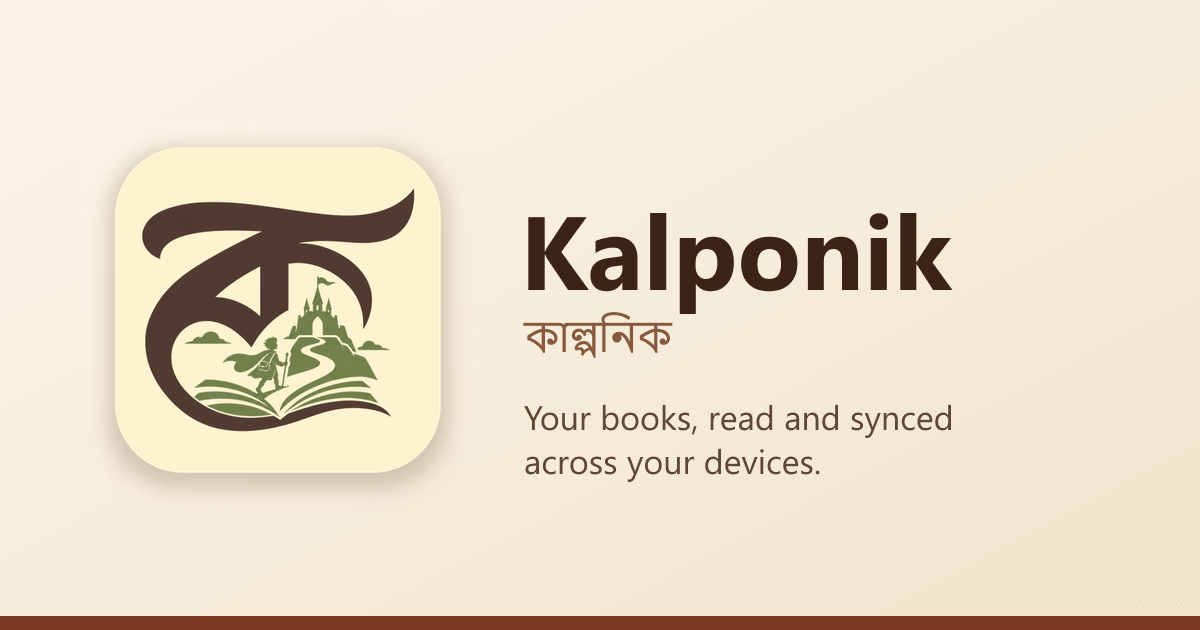
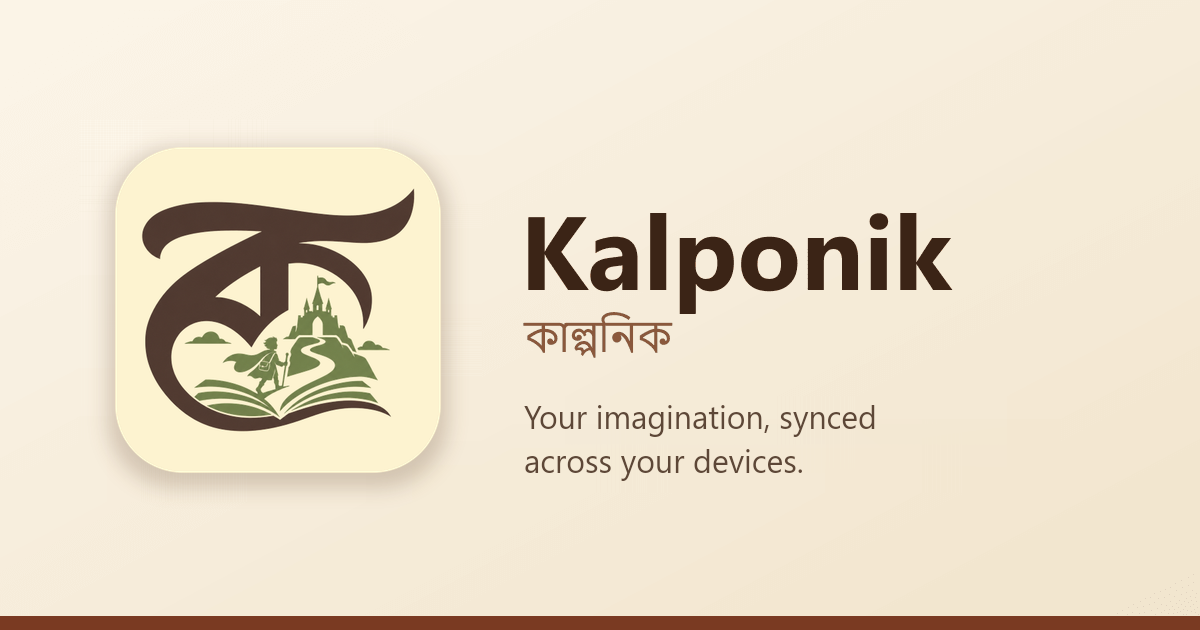
Own feature graphic and tagline; README credits Readest
Tagline everywhere is now "Get lost in a story. Your imagination,
synced across your devices." (owner: "imagination synced across
devices").

- fastlane featureGraphic.png (1024x500, no alpha): replaces Readest's
  marketing banner. Logo, Kalponik / কাল্পনিক, the tagline, and a
  path over olive hills to a castle. Platforms shown as plain Web and
  Android labels with our own glyphs, no brand logos.
- og-preview.png: tagline text swapped, layout unchanged.
- layout.tsx: page title and description (used by link previews) drop
  Readest's "Where You Read, Digest and Get Insight" slogan.
- manifest.json: description credits Readest (it said "based on the
  open-source Kalponik", a leftover of the rename).
- README: Kalponik logo and intro at the top, a clear credit with a
  link to github.com/readest/readest, and a "Built on Readest" section.

Verified: site-metadata.test.ts gets "uses Kalponik's own tagline, not
Readest's slogan"; it failed on the old layout.tsx ("expected ... not
to match /Digest and Get Insight/") and passes now (4/4). Images were
checked by eye.

Changed region(s): [[0.4317, 0.6333, 0.8017, 0.6937], [0.4317, 0.7238, 0.6783, 0.754]]

diff --git a/apps/kalponik-app/src/app/layout.tsx b/apps/kalponik-app/src/app/layout.tsx
@@ -12,12 +12,11 @@ import '../styles/globals.css';
 // Kalponik's public address, base path included.
 const siteOrigin = 'https://asroy.duckdns.org';
 const url = `${siteOrigin}${BASE_PATH}/`;
-const title = 'Kalponik — Where You Read, Digest and Get Insight';
+const title = 'Kalponik — Get lost in a story';
 const description =
-  'Discover Kalponik, the ultimate online ebook reader for immersive and organized reading. ' +
-  'Enjoy seamless access to your digital library, powerful tools for highlighting, bookmarking, ' +
-  'and note-taking, and support for multiple book views. ' +
-  'Perfect for deep reading, analysis, and understanding. Explore now!';
+  'Your imagination, synced across your devices. ' +
+  'Kalponik is a personal ebook reader for EPUB, PDF and more, on the web and Android: ' +
+  'highlights, notes and your place in every book follow you from one device to the next.';
 // Relative to metadataBase, which already ends in the base path: Next.js joins
 // the two paths, so this one must not carry /kalponik itself.
 const previewImage = '/images/og-preview.png';

diff --git a/apps/kalponik-app/src/__tests__/app/layout/site-metadata.test.ts b/apps/kalponik-app/src/__tests__/app/layout/site-metadata.test.ts
@@ -17,6 +17,13 @@ describe('root layout metadata', () => {
     expect(JSON.stringify(metadata)).not.toMatch(/readest\.com/);
   });
 
+  it("uses Kalponik's own tagline, not Readest's slogan", () => {
+    const text = JSON.stringify([metadata.title, metadata.description, metadata.openGraph]);
+    expect(text).not.toMatch(/Digest and Get Insight/);
+    expect(metadata.description).toMatch(/^Your imagination, synced across your devices\./);
+    expect(metadata.openGraph?.description).toBe(metadata.description);
+  });
+
   it("serves the preview image from Kalponik's own public folder", () => {
     expect(metadata.openGraph?.images).toEqual(['/images/og-preview.png']);
     expect(metadata.twitter?.images).toEqual(['/images/og-preview.png']);

diff --git a/README.md b/README.md
@@ -1,11 +1,18 @@
 <div align="center">
-  <a href="https://readest.com?utm_source=github&utm_medium=referral&utm_campaign=readme" target="_blank">
-    <img src="https://github.com/readest/readest/blob/main/apps/readest-app/src-tauri/icons/icon.png?raw=true" alt="Kalponik Logo" width="20%" />
-  </a>
-  <h1>Kalponik</h1>
-  <br>
+  <img src="./apps/kalponik-app/public/icon.png" alt="Kalponik logo" width="20%" />
+  <h1>Kalponik · কাল্পনিক</h1>
+  <p><em>Get lost in a story. Your imagination, synced across your devices.</em></p>
 
-[Kalponik][link-website] is an open-source ebook reader designed for immersive and deep reading experiences. Built as a modern rewrite of [Foliate](https://github.com/johnfactotum/foliate), it leverages [Next.js 16](https://github.com/vercel/next.js) and [Tauri v2](https://github.com/tauri-apps/tauri) to deliver a smooth, cross-platform experience across macOS, Windows, Linux, Android, iOS, and the Web.
+Kalponik (Bengali for "imaginary") is a personal, self-hosted ebook reader for
+the web and Android, with your library, highlights and reading position synced
+between them.
+
+**Kalponik is built on [Readest](https://github.com/readest/readest)**, the
+open-source ebook reader by the Readest team and contributors, itself a modern
+rewrite of [Foliate](https://github.com/johnfactotum/foliate) on
+[Next.js](https://github.com/vercel/next.js) and
+[Tauri v2](https://github.com/tauri-apps/tauri). Nearly everything that makes
+it a good reader comes from their work; see [Built on Readest](#built-on-readest).
 
 [![Website][badge-website]][link-website]
 [![Web App][badge-web-app]][link-web-kalponik]
@@ -34,6 +41,7 @@
   <a href="./SELF-HOSTING.md">Host Your Own</a> •
   <a href="#troubleshooting">Troubleshooting</a> •
   <a href="#support">Support</a> •
+  <a href="#built-on-readest">Built on Readest</a> •
   <a href="#license">License</a>
 </p>
 
@@ -251,6 +259,16 @@ If Kalponik has been useful to you, consider supporting its development at [dona
     <img src="https://raw.githubusercontent.com/kalponik/kalponik/refs/heads/main/data/sponsors/testmu-ai-logo.png" style="vertical-align: middle;" width="250" />
   </a>
 </p>
+
+## Built on Readest
+
+Kalponik is a fork of [Readest](https://github.com/readest/readest)
+([readest.com](https://readest.com)). The reader itself, its formats, its
+sync design and most of this repository's history are the Readest team's and
+contributors' work. Kalponik adds self-hosting on a free Supabase project and
+your own S3 storage, invite-only sign-up, public and private shelves, and its
+own name and look. If you want a polished reader with official apps for every
+platform, use and support [Readest](https://readest.com).
 
 ## License
 
